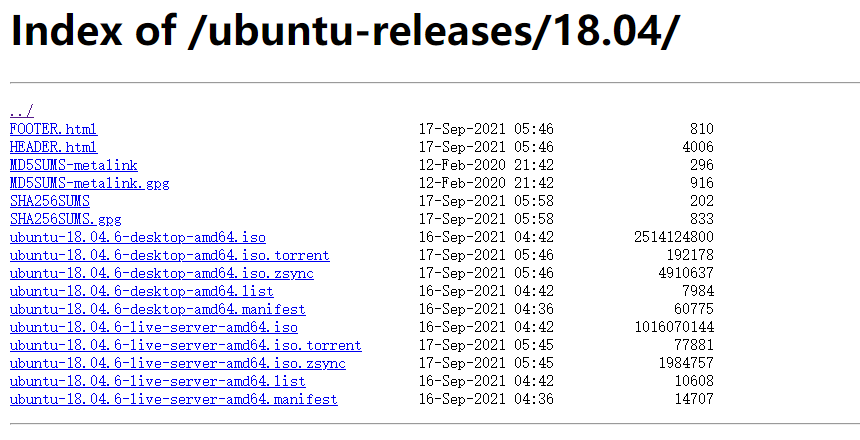
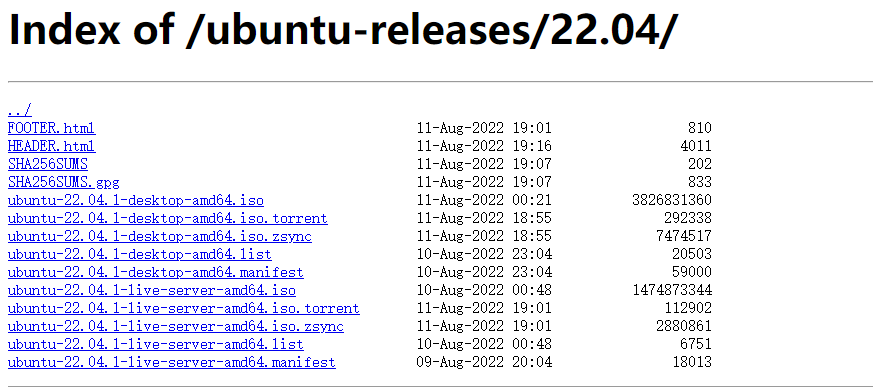
test

diff --git a/Before the Labs/doc.md b/Before the Labs/doc.md
@@ -58,6 +58,61 @@
 
 
 
+## Ubuntu安装Wireshark
+
+Wireshark 可以在 Ubuntu 的 Universe 存储库中找到。你可以[启用 universe 存储库](https://link.zhihu.com/?target=https%3A//itsfoss.com/ubuntu-repositories/)，然后按如下方式安装：
+
+```
+sudo add-apt-repository universe
+sudo apt install wireshark
+```
+
+这种方法的一个小问题是，你可能并不总是得到最新版本的 Wireshark 。例如，在 Ubuntu 18.04 中，如果你使用 [apt](https://link.zhihu.com/?target=https%3A//itsfoss.com/apt-command-guide/) 命令检查 Wireshark 的可用版本，可用版本会显示是 2.6 。
+
+```
+abhishek@nuc:~$ apt show wireshark
+Package: wireshark
+Version: 2.6.10-1~ubuntu18.04.0
+Priority: optional
+Section: universe/net
+Origin: Ubuntu
+Maintainer: Balint Reczey <rbalint@ubuntu.com>
+```
+
+Wireshark 开发者提供了一种官方 PPA 方式，你可以使用它在 Ubuntu 和其它基于 Ubuntu 的发行版上安装最新稳定版本的 Wireshark。打开终端并逐个使用以下命令：
+
+```
+sudo add-apt-repository ppa:wireshark-dev/stable
+sudo apt update
+sudo apt install wireshark
+```
+
+即使安装了旧版本的 Wireshark ，它也将更新为新版本。
+
+安装时，系统将询问你是否允许非超级用户捕获数据包。选择“Yes”允许，选择“No”限制非超级用户捕获数据包，最后完成安装。
+
+### 不使用sudo运行Wireshark
+
+如果在上一次安装中选择了“No”，则以 root 用户身份运行以下命令：
+
+```
+sudo dpkg-reconfigure wireshark-common
+```
+
+然后按 `tab` 键并使用回车键选择“No”：
+
+
+
+由于你允许非超级用户捕获数据包，因此你必须将该用户添加到 `wireshark` 组。使用 [usermod](https://link.zhihu.com/?target=https%3A//linuxhandbook.com/usermod-command/) 命令将自己添加到 `wireshark` 组。
+
+```
+sudo usermod -aG wireshark $(whoami)
+```
+
+最后，重启你的 Ubuntu 系统对你的系统进行必要的修改。
+
+
+
 # 安装Virtualbox
 
 选择`Virtualbox`原因：1. `Virtualbox`是开源软件，`VMware` 不开源且收费。2. `Virtualbox`对`Linux` 虚拟机字符界面支持较好，`VMware` 对`Linux`虚拟机的字符界面支持很差，比如不能自动调整分辨率。
@@ -108,7 +163,7 @@
 
 ## 下载Ubuntu镜像
 
-**可以在中科大源下载http://mirrors.ustc.edu.cn/ubuntu-releases/18.04/，选择`ubuntu-18.04.6-desktop-amd64.ios`**
+**可以在[中科大源下载](http://mirrors.ustc.edu.cn/ubuntu-releases/22.04/)，选择`ubuntu-22.04.1-desktop-amd64.ios`**
 
 ![pic26](https://github.com/ShawnZL/Labs/raw/master/picture/doc_picture/pic26.png)
 
